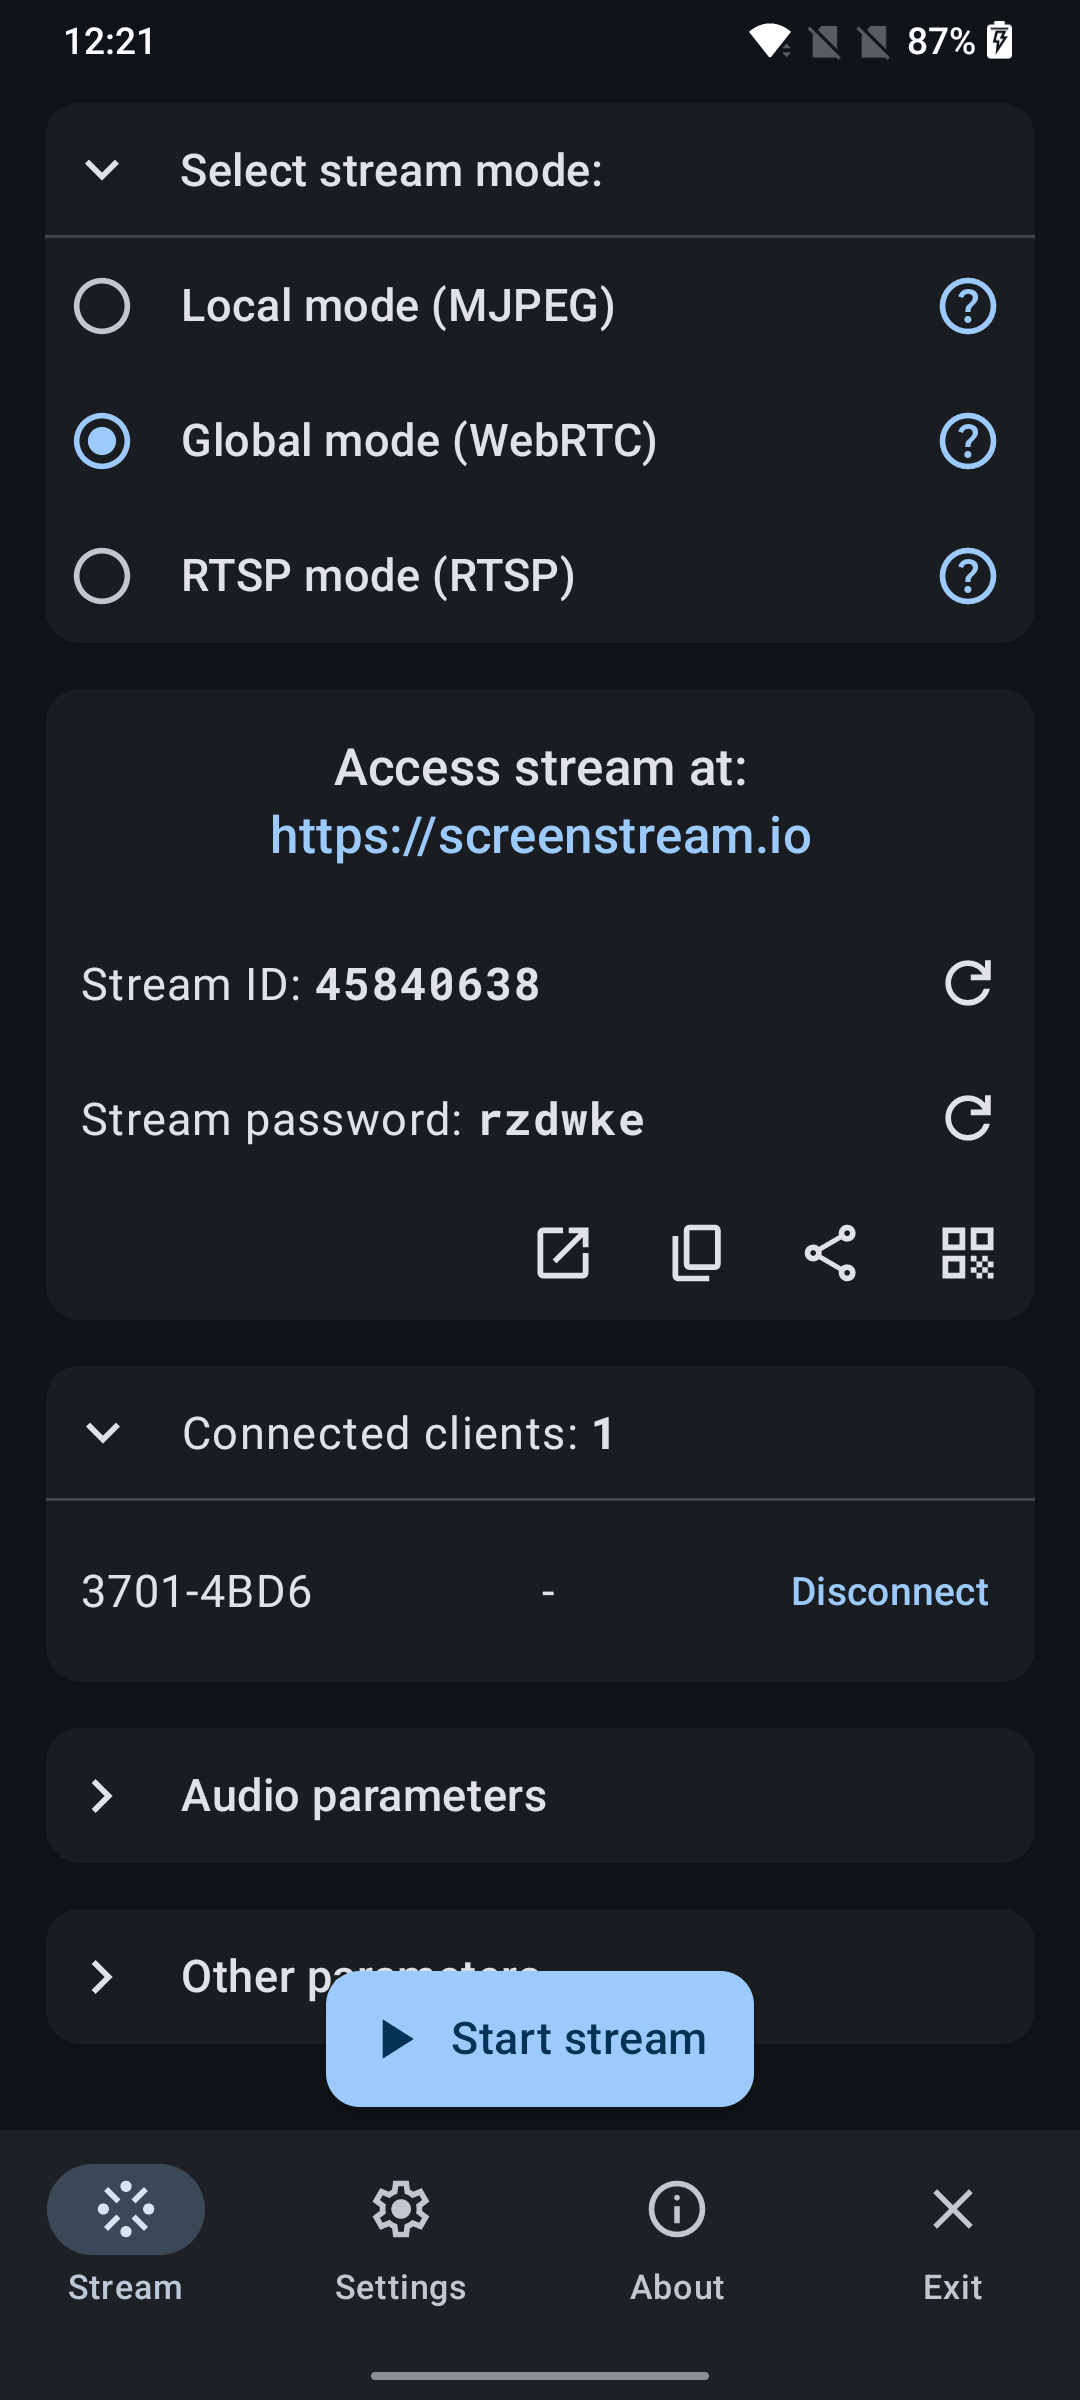
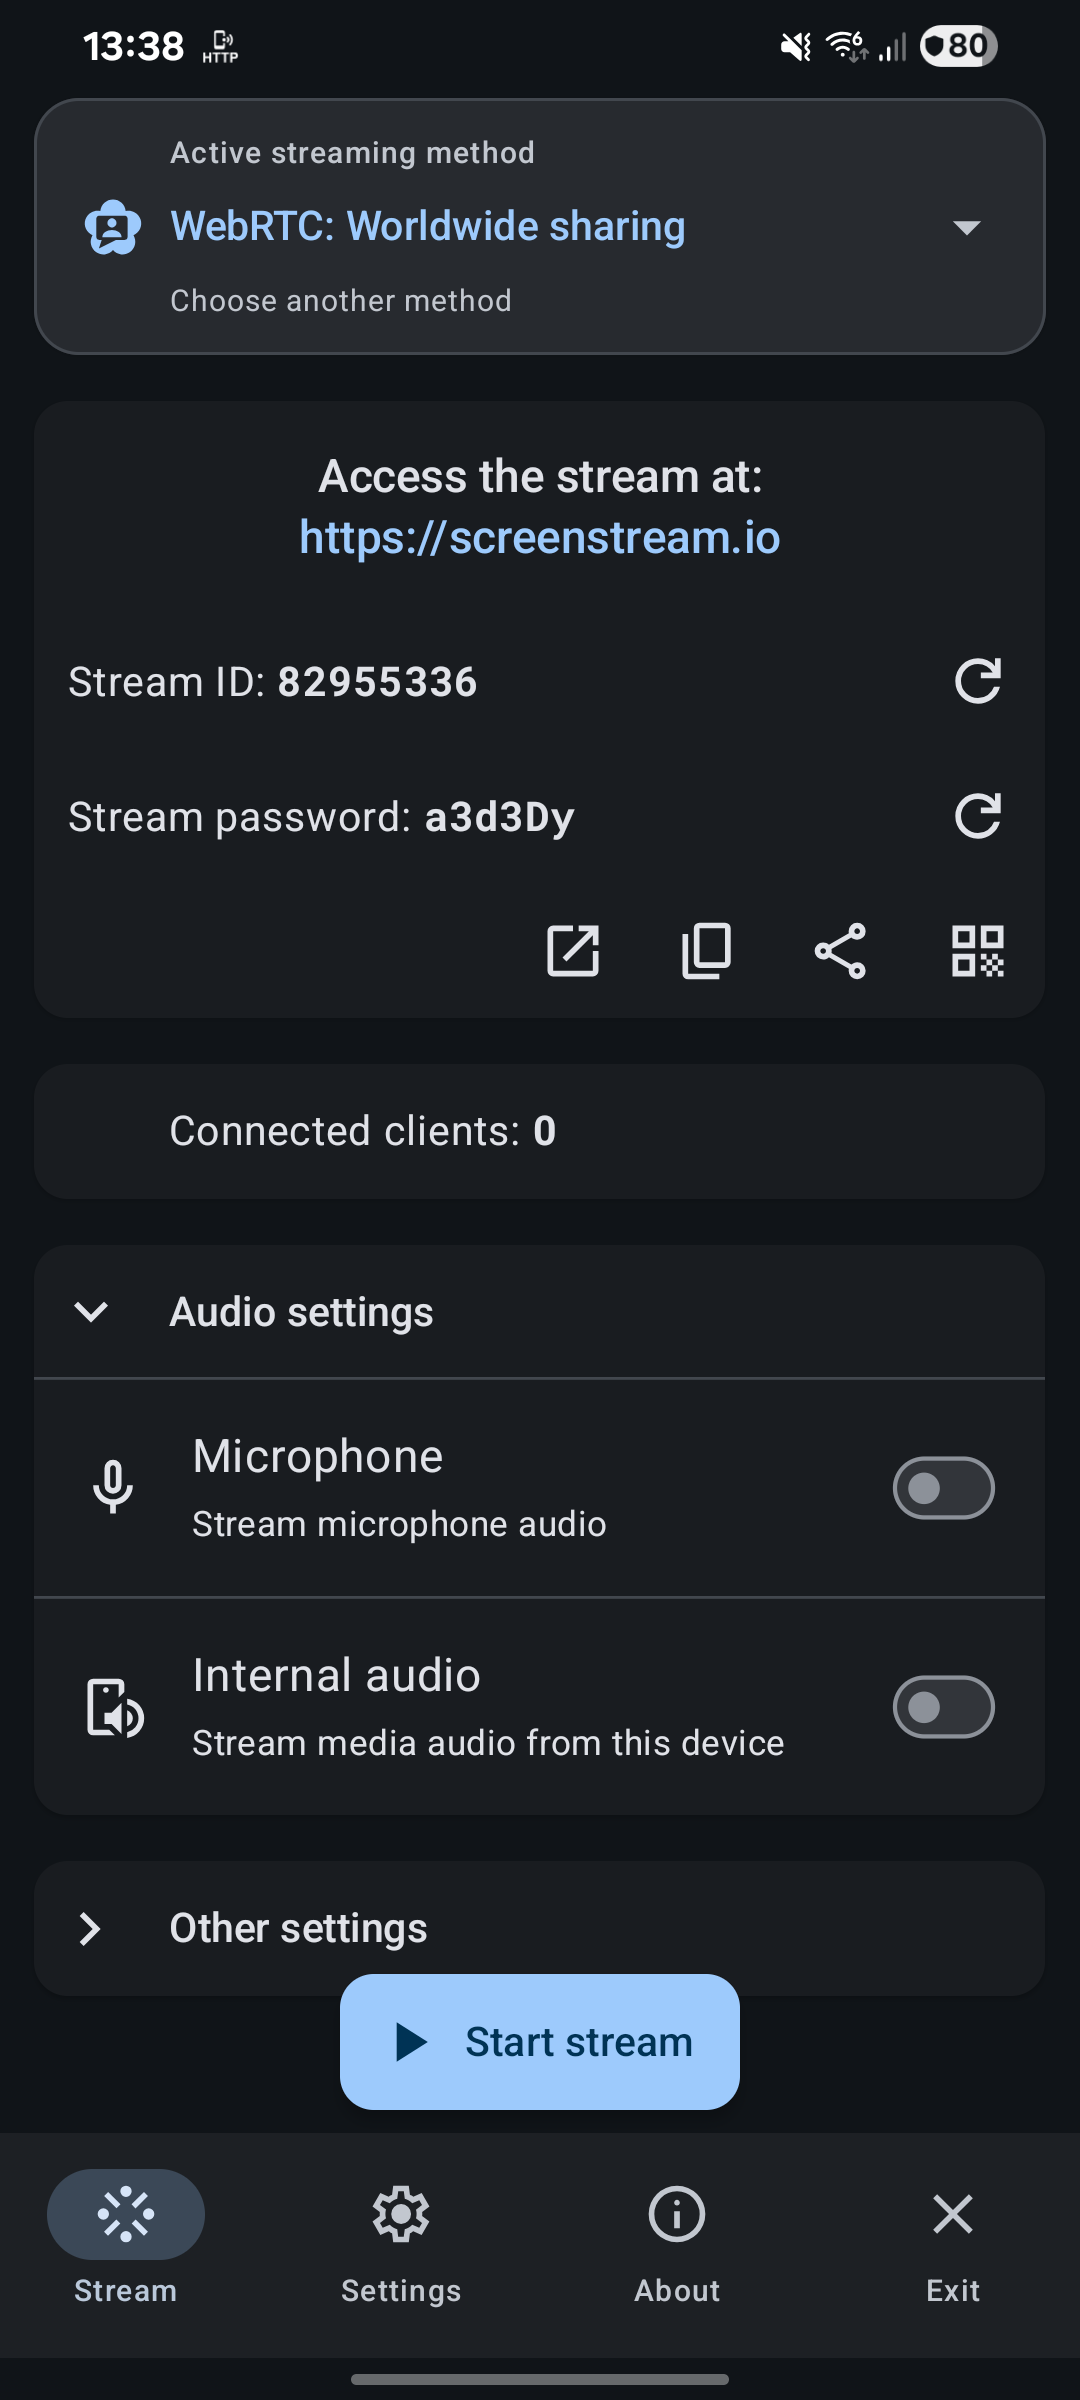
Releasse 4.5.0

diff --git a/streaming/mjpeg/src/main/kotlin/io/screenstream/mjpeg/ui/MjpegContent.kt b/streaming/mjpeg/src/main/kotlin/io/screenstream/mjpeg/ui/MjpegContent.kt
@@ -120,7 +120,6 @@ internal fun MjpegContent(
             BoxWithConstraints(
                 Modifier
                     .fillMaxSize()
-                    .padding(innerPadding)
             ) {
                 LazyVerticalStaggeredGrid(
                     columns = StaggeredGridCells.Fixed(if (maxWidth >= 800.dp) 2 else 1),
@@ -129,7 +128,7 @@ internal fun MjpegContent(
                         start = 12.dp,
                         top = 0.dp,
                         end = 12.dp,
-                        bottom = 8.dp,
+                        bottom = innerPadding.calculateBottomPadding() + 8.dp,
                     ),
                     verticalItemSpacing = 4.dp,
                     horizontalArrangement = Arrangement.spacedBy(8.dp),

diff --git a/README.md b/README.md
@@ -24,11 +24,11 @@ For direct on-chain transfers:
 
 ## Stream modes
 
-ScreenStream offers three stream modes: **Global mode (WebRTC)** (available only in the [Google Play Store](https://play.google.com/store/apps/details?id=info.dvkr.screenstream) version), **Local mode (MJPEG)**, and **RTSP mode**. All modes stream the Android device screen, but they function differently. Audio support is available in **Global mode (WebRTC)** and **RTSP mode** only. The modes are independent of each other and have different capabilities, restrictions, and customization options.
+ScreenStream offers three stream modes: **Global mode (WebRTC)** (available only in the [Google Play Store](https://play.google.com/store/apps/details?id=info.dvkr.screenstream) version), **Local mode (MJPEG)**, and **RTSP mode**. The app's mode chooser lists them as **WebRTC: Worldwide sharing**, **MJPEG: Direct browser viewing**, and **RTSP: Players and media servers**. All modes stream the Android device screen, but they function differently. Audio support is available in **Global mode (WebRTC)** and **RTSP mode** only. In these modes, microphone and internal device audio are optional. Internal device audio requires Android 10 or higher and is captured only when Android and the source app allow it. The modes are independent of each other and have different capabilities, restrictions, and customization options.
 
 | Mode                     | Delivery                     | Video                     | Audio                 | Internet required              | Connection model                                                       | Security                                     |
 |--------------------------|------------------------------|---------------------------|--------------------|--------------------------------|------------------------------------------------------------------------|----------------------------------------------|
-| **Local mode (MJPEG)**   | MJPEG over HTTP              | JPEG images               | No                 | No                             | Built-in HTTP server                                                   | Optional 4–6 digit PIN                       |
+| **Local mode (MJPEG)**   | MJPEG over HTTP              | JPEG images               | No                 | No                             | Built-in HTTP server                                                   | Optional 6-digit PIN                         |
 | **Global mode (WebRTC)** | WebRTC                       | WebRTC video              | Microphone / internal audio | Yes                            | Public signaling service at [screenstream.io](https://screenstream.io) | End-to-end encryption + password             |
 | **RTSP mode**            | RTSP/RTP over TCP or UDP     | H.264 / H.265             | OPUS / AAC / G.711 | No (server) / Depends (client) | Built-in server (server mode) / External server (client mode)          | Client mode supports RTSP auth + RTSPS (TLS) |
 
@@ -71,22 +71,6 @@ The Local mode offers the following functionality:
 >
 > - Some Wi-Fi networks, particularly public or guest networks, isolate connected devices from each other. In this case, a phone and a client device on the same Wi-Fi network may still be unable to connect directly.
 
-**Screenshots**
-
-<p>
-  <img src="docs/images/mjpeg-1.png" alt="Local mode main screen" width="270" />&nbsp;
-  <img src="docs/images/mjpeg-7.png" alt="Local mode activity and connected clients" width="270" />&nbsp;
-  <img src="docs/images/mjpeg-2.png" alt="Local mode information dialog" width="270" />
-</p>
-<p>
-  <img src="docs/images/mjpeg-3.png" alt="Local mode general settings" width="270" />&nbsp;
-  <img src="docs/images/mjpeg-4.png" alt="Local mode image settings" width="270" />&nbsp;
-  <img src="docs/images/mjpeg-5.png" alt="Local mode security settings" width="270" />
-</p>
-<p align="center">
-  <img src="docs/images/mjpeg-6.png" alt="Local mode advanced settings" width="290" />
-</p>
-
 ### Global mode (WebRTC)
 
 Global mode uses WebRTC and the public ScreenStream signaling service to connect the streaming host (the app) with viewers using the ScreenStream [Web Client](https://screenstream.io).
@@ -106,14 +90,6 @@ Global mode offers the following functionality:
 > [!NOTE]
 > Global mode (WebRTC) is available only in the Google Play version.
 
-**Screenshots**
-
-<p>
-  <img src="docs/images/webrtc-1.png" alt="Global mode main screen" width="270" />&nbsp;
-  <img src="docs/images/webrtc-2.png" alt="Global mode information dialog" width="270" />&nbsp;
-  <img src="docs/images/webrtc-3.png" alt="Global mode audio settings" width="270" />
-</p>
-
 ### RTSP mode
 
 RTSP mode supports two sub-modes. Server mode (default) hosts the Android device as an RTSP server so compatible players can connect directly. Client mode publishes the stream to an external RTSP media server, such as MediaMTX.
@@ -132,16 +108,19 @@ For optimal performance, a fast and stable network connection is recommended due
 > [!NOTE]
 > Client mode requires an RTSP‑capable media server (e.g., [MediaMTX](https://github.com/bluenviron/mediamtx)).
 
-**Screenshots**
+## Screenshots
 
 <p>
-  <img src="docs/images/rtsp-1.png" alt="RTSP mode main screen" width="270" />&nbsp;
-  <img src="docs/images/rtsp-2.png" alt="RTSP mode information dialog" width="270" />&nbsp;
-  <img src="docs/images/rtsp-3.png" alt="RTSP mode server settings" width="270" />
+  <img src="docs/images/streaming-modes.png" alt="Streaming method chooser" width="270" />&nbsp;
+  <img src="docs/images/mjpeg-1.png" alt="MJPEG stream addresses and statistics" width="270" />
 </p>
-<p align="center">
-  <img src="docs/images/rtsp-4.png" alt="RTSP mode video settings" width="290" />&nbsp;
-  <img src="docs/images/rtsp-5.png" alt="RTSP mode audio settings" width="290" />
+<p>
+  <img src="docs/images/mjpeg-4.png" alt="MJPEG image settings" width="270" />&nbsp;
+  <img src="docs/images/mjpeg-5.png" alt="MJPEG access settings" width="270" />
+</p>
+<p>
+  <img src="docs/images/webrtc-1.png" alt="WebRTC streaming and audio controls" width="270" />&nbsp;
+  <img src="docs/images/rtsp-1.png" alt="RTSP server mode" width="270" />
 </p>
 
 ## Contribution
